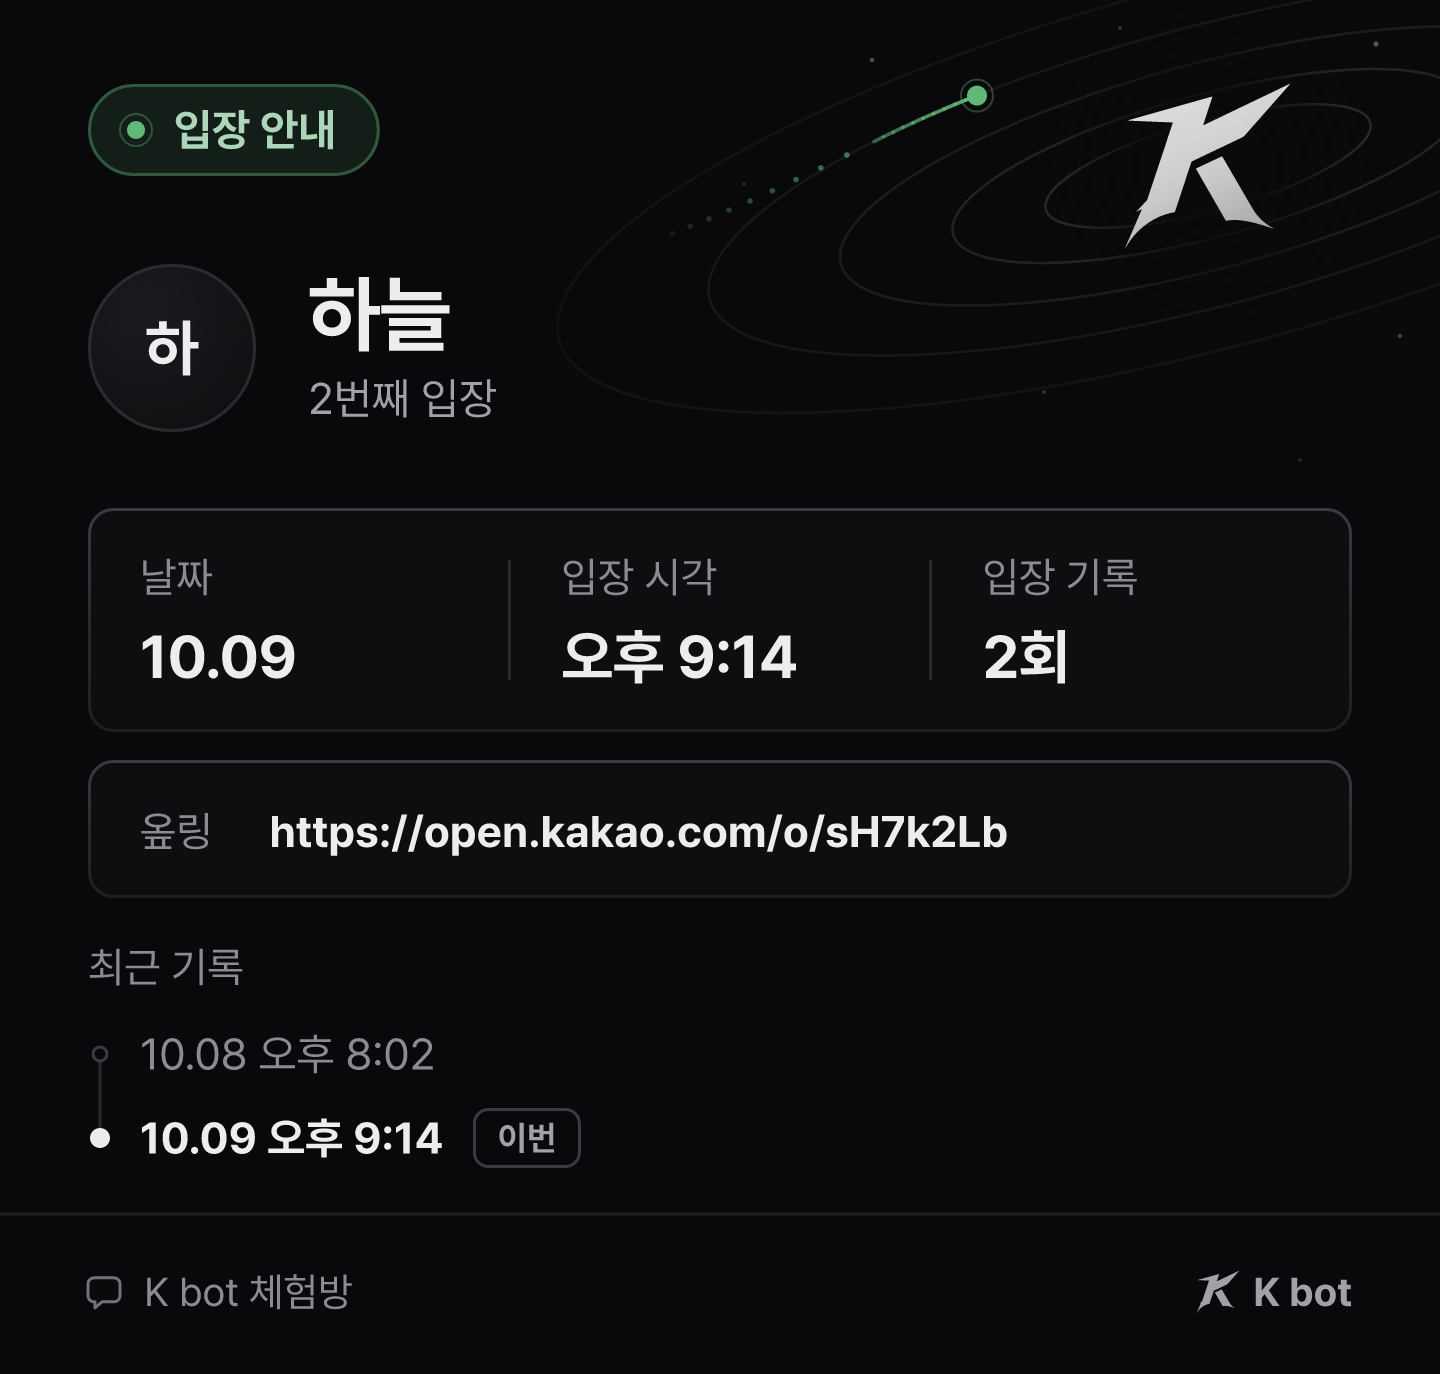
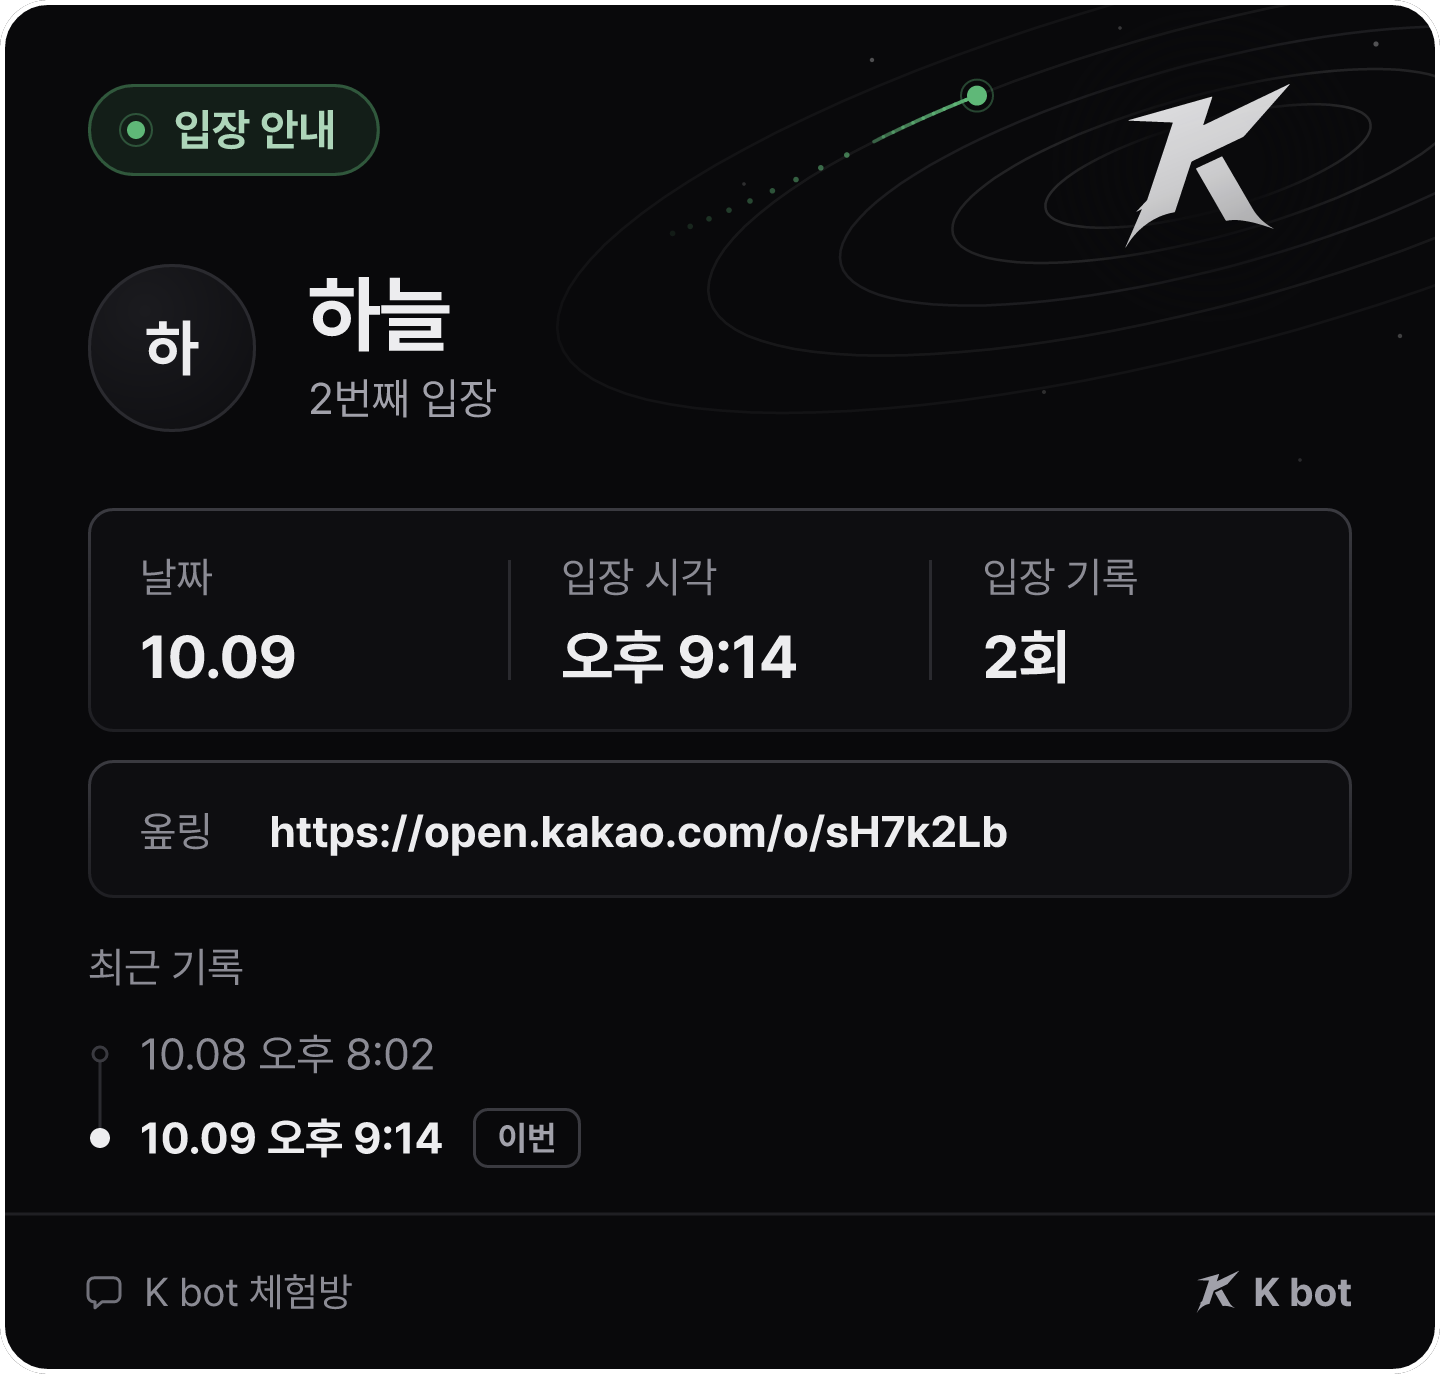
Log cards: white outer frame
The card is now a rounded card (radius 24) with a white 2.5px outline;
outside the rounded corners is transparent and the art and text are
clipped to the card. Panel previews regenerated (v=6). The margin
overflow test skips the frame band and the rounded corner.

Claude-Session: https://claude.ai/code/session_01Naz22F57sQBVpt8ijJSy2A

Changed region(s): [[0.0, 0.0, 1.0, 1.0]]

diff --git a/public/panel.html b/public/panel.html
@@ -686,7 +686,7 @@
         <div class="srow-r"><div class="w100 style-pick"><div class="seg" id="r-visit-style" role="group" aria-label="방에 보내는 안내 모양"><span class="seg-ind"></span><button type="button" data-v="image" aria-pressed="true">이미지</button><button type="button" data-v="text" aria-pressed="false">글</button></div>
           <p class="style-note" data-style-note="r-visit-style"></p>
           <div class="preview-chat" data-style-of="r-visit-style"><span class="who-l" data-r-who></span>
-            <div class="style-v" data-v="image"><img class="bub-img" src="/img/logcard-join.png?v=5" width="720" height="687" alt="[입장 안내] 이미지 — 하늘 · 옾링 https://open.kakao.com/o/sH7k2Lb · 입장 기록 2회, 10.08 오후 8:02, 10.09 오후 9:14" loading="lazy"><div class="bub notice">[입장 안내]&#10;이름 : @하늘&#10;옾링 : https://open.kakao.com/o/sH7k2Lb</div></div>
+            <div class="style-v" data-v="image"><img class="bub-img" src="/img/logcard-join.png?v=6" width="720" height="687" alt="[입장 안내] 이미지 — 하늘 · 옾링 https://open.kakao.com/o/sH7k2Lb · 입장 기록 2회, 10.08 오후 8:02, 10.09 오후 9:14" loading="lazy"><div class="bub notice">[입장 안내]&#10;이름 : @하늘&#10;옾링 : https://open.kakao.com/o/sH7k2Lb</div></div>
             <div class="style-v" data-v="text" hidden><div class="bub notice">[입장 안내]&#10;이름 : @하늘&#10;옾링 : https://open.kakao.com/o/sH7k2Lb&#10;입장 기록 : 2회&#10;10.08 오후 8:02&#10;10.09 오후 9:14</div></div>
           </div></div></div></div>
     </div></div>
@@ -765,7 +765,7 @@
         <div class="srow-r"><div class="w100 style-pick"><div class="seg" id="r-profile-style" role="group" aria-label="방에 보내는 안내 모양"><span class="seg-ind"></span><button type="button" data-v="image" aria-pressed="true">이미지</button><button type="button" data-v="text" aria-pressed="false">글</button></div>
           <p class="style-note" data-style-note="r-profile-style"></p>
           <div class="preview-chat" data-style-of="r-profile-style"><span class="who-l" data-r-who></span>
-            <div class="style-v" data-v="image"><img class="bub-img" src="/img/logcard-profile.png?v=5" width="720" height="563" alt="[프로필 변경 감지] 이미지 — 변경전 하늘 · 변경후 하늘_판매 · 옾링 https://open.kakao.com/o/sH7k2Lb · 변경 기록 1회, 10.09 오후 9:14" loading="lazy"><div class="bub notice">[프로필 변경 감지]&#10;변경전 : ＠하늘&#10;변경후 : @하늘_판매&#10;옾링 : https://open.kakao.com/o/sH7k2Lb</div></div>
+            <div class="style-v" data-v="image"><img class="bub-img" src="/img/logcard-profile.png?v=6" width="720" height="563" alt="[프로필 변경 감지] 이미지 — 변경전 하늘 · 변경후 하늘_판매 · 옾링 https://open.kakao.com/o/sH7k2Lb · 변경 기록 1회, 10.09 오후 9:14" loading="lazy"><div class="bub notice">[프로필 변경 감지]&#10;변경전 : ＠하늘&#10;변경후 : @하늘_판매&#10;옾링 : https://open.kakao.com/o/sH7k2Lb</div></div>
             <div class="style-v" data-v="text" hidden><div class="bub notice">[프로필 변경 감지]&#10;변경전 : ＠하늘&#10;변경후 : @하늘_판매&#10;옾링 : https://open.kakao.com/o/sH7k2Lb&#10;변경 기록 : 1회&#10;10.09 오후 9:14</div></div>
           </div></div></div></div>
     </div></div>
